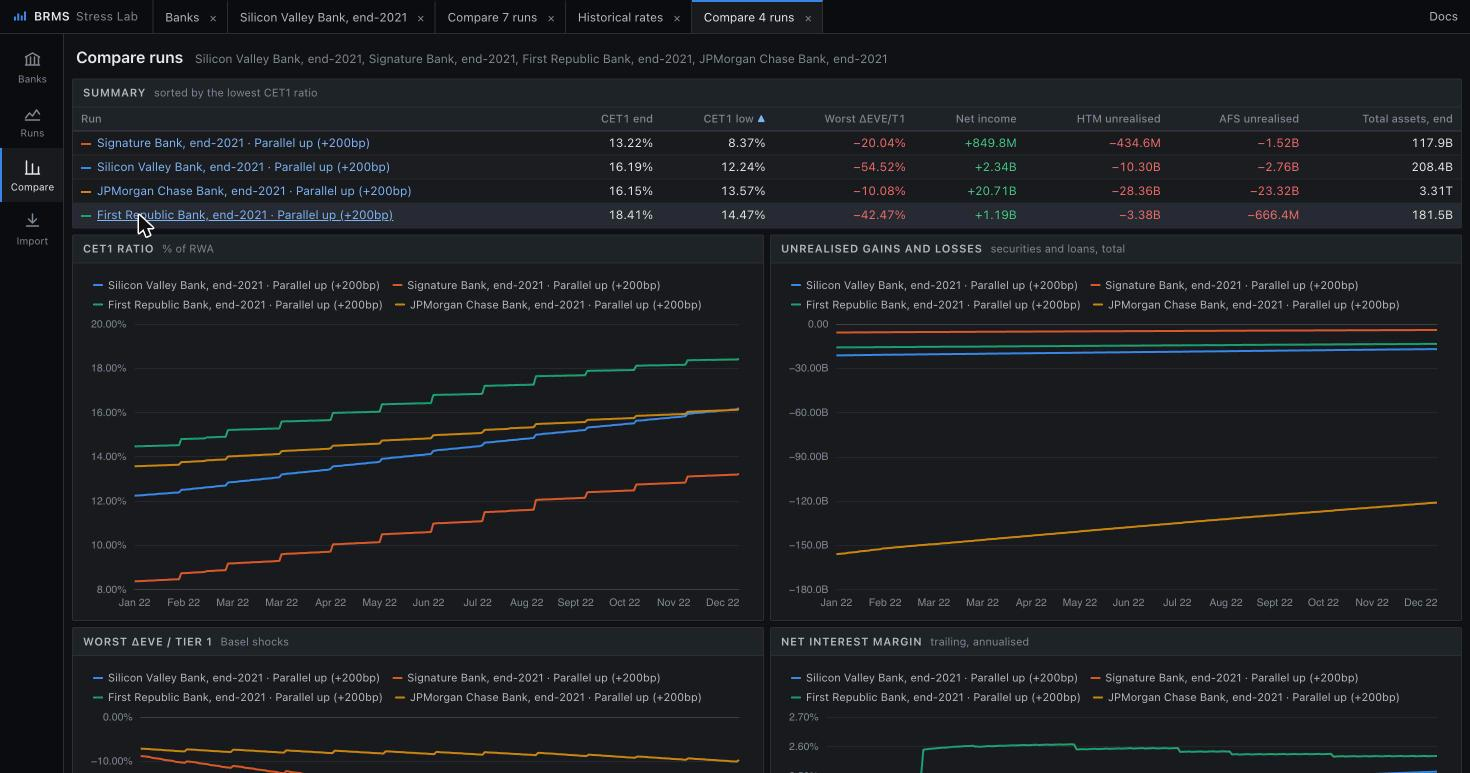
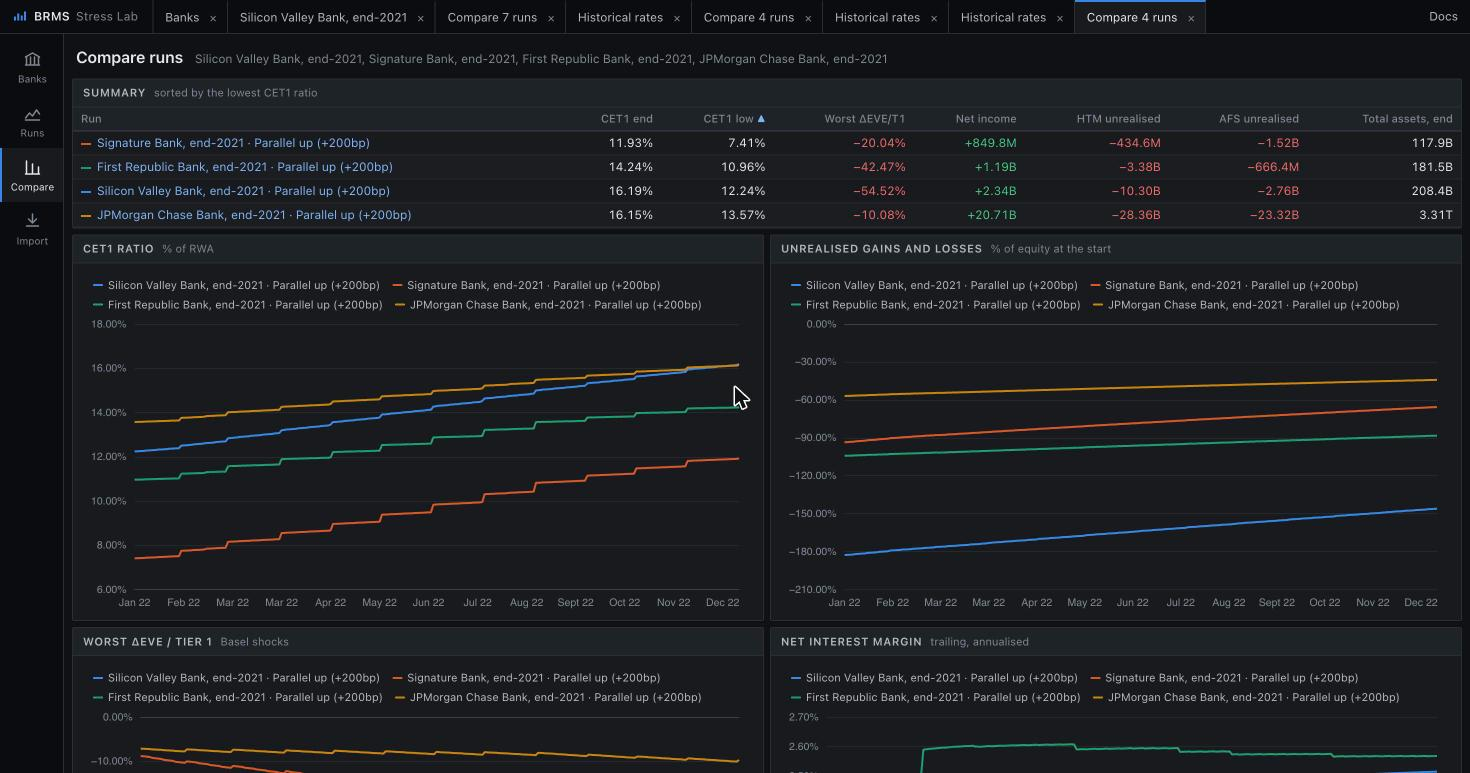
feat: preferred stock and Tier 2 from the Call Report; capital validated against filings
Preferred stock in equity counts as Additional Tier 1, not CET1
(regulatory.preferred_equity); Call Report banks take it from EQPP and
Tier 2 from RBCT2. Validation compares each case study's starting
equity, RWA and CET1 with its filing. Comparing several banks shows
unrealised gains and losses as a share of each bank's equity.

diff --git a/src/brms/web/static/js/views/compare.js b/src/brms/web/static/js/views/compare.js
@@ -82,9 +82,19 @@ function view(runs, failed) {
     return r.dates.map((_, j) => books.reduce((acc, values) => (values[j] === null ? acc : (acc ?? 0) + values[j] * unit),
       null));
   };
+  // Across banks of different sizes, losses mean more against each bank's own equity.
+  const ofEquity = (r) => {
+    const total = sumBooks(r);
+    const equity = (r.metrics.TOTAL_EQUITY || []).find((v) => v !== null && v !== undefined);
+    if (!total || !equity) return null;
+    return total.map((v) => (v === null ? null : v / (equity * (r.meta.unit || 1))));
+  };
+  const unrealised = multiBank
+    ? ["Unrealised gains and losses", ofEquity, (v) => pct(v, { sign: true }), "% of equity at the start", true]
+    : ["Unrealised gains and losses", sumBooks, (v) => money(v, { sign: true }), "securities and loans, total", true];
   const specs = [
     ["CET1 ratio", (r) => r.metrics.CET1_RATIO, (v) => pct(v), "% of RWA"],
-    ["Unrealised gains and losses", sumBooks, (v) => money(v, { sign: true }), "securities and loans, total", true],
+    unrealised,
     ["Worst ΔEVE / Tier 1", (r) => r.metrics.DELTA_EVE_WORST_TO_TIER1, (v) => pct(v, { sign: true }), "Basel shocks", true],
     ["Net interest margin", (r) => r.metrics.NET_INTEREST_MARGIN, (v) => pct(v), "trailing, annualised"],
   ];

diff --git a/src/brms/core/models/regulatory.py b/src/brms/core/models/regulatory.py
@@ -15,8 +15,10 @@ class RegulatoryConfig:
         aoci_filter: True removes accumulated OCI from CET1 (the US opt-out for banks not on
             advanced approaches); False is the Basel III treatment, where it counts.
         operational_rwa: Operational-risk RWA (an input; operational losses are not modelled).
-        additional_tier1: Additional Tier 1 instruments outstanding.
+        additional_tier1: Additional Tier 1 instruments outstanding (not in book equity).
         tier2: Tier 2 capital.
+        preferred_equity: Preferred stock included in book equity that counts as Additional Tier 1:
+            excluded from CET1 and added back in Tier 1.
 
     """
 
@@ -24,6 +26,7 @@ class RegulatoryConfig:
     operational_rwa: Decimal = Decimal(0)
     additional_tier1: Decimal = Decimal(0)
     tier2: Decimal = Decimal(0)
+    preferred_equity: Decimal = Decimal(0)
 
     def to_json(self) -> dict[str, Any]:
         """Return the JSON form written to ``config.json``."""
@@ -32,6 +35,7 @@ class RegulatoryConfig:
             "operational_rwa": str(self.operational_rwa),
             "additional_tier1": str(self.additional_tier1),
             "tier2": str(self.tier2),
+            "preferred_equity": str(self.preferred_equity),
         }
 
     @classmethod
@@ -43,4 +47,5 @@ class RegulatoryConfig:
             operational_rwa=Decimal(str(data.get("operational_rwa", 0))),
             additional_tier1=Decimal(str(data.get("additional_tier1", 0))),
             tier2=Decimal(str(data.get("tier2", 0))),
+            preferred_equity=Decimal(str(data.get("preferred_equity", 0))),
         )

diff --git a/src/brms/core/metrics/regulatory.py b/src/brms/core/metrics/regulatory.py
@@ -3,8 +3,9 @@
 All figures for a day come from one :class:`CapitalCalculator` pass over the as-if-closed
 balance sheet and the day's valuations, shared by every metric in this module.
 
-- CET1 = total equity - (accumulated OCI if the AOCI filter is on) - intangible assets.
-- Tier 1 = CET1 + AT1; Total capital = Tier 1 + Tier 2 (AT1 and Tier 2 are inputs).
+- CET1 = total equity - (accumulated OCI if the AOCI filter is on) - intangible assets - preferred
+  stock in equity.
+- Tier 1 = CET1 + preferred stock in equity + other AT1; Total capital = Tier 1 + Tier 2 (inputs).
 - Total RWA = credit RWA (standardised approach) + operational RWA (an input).
 - Leverage exposure = total assets - intangible assets (on-balance-sheet only).
 """
@@ -59,8 +60,9 @@ class CapitalCalculator:
         intangibles = rows.get("Intangible Assets", Decimal(0))
         aoci = rows.get("Accumulated OCI", Decimal(0))
         regulatory = bank.regulatory
-        cet1 = Decimal(str(bs["total_equity"])) - intangibles - (aoci if regulatory.aoci_filter else Decimal(0))
-        tier1 = cet1 + regulatory.additional_tier1
+        cet1 = (Decimal(str(bs["total_equity"])) - intangibles - (aoci if regulatory.aoci_filter else Decimal(0))
+                - regulatory.preferred_equity)
+        tier1 = cet1 + regulatory.preferred_equity + regulatory.additional_tier1
         credit = credit_rwa(bank, valuation_store, date, bs).total
         figures = CapitalFigures(
             cet1=cet1,

diff --git a/tests/lab/test_bank_file.py b/tests/lab/test_bank_file.py
@@ -237,3 +237,19 @@ def test_no_operating_flows_in_the_opening_balances(tmp_path: Path) -> None:
     sim = build_core_services(simulation_zip=out).simulation_service
     assert float(account_balance(sim, "Cash and Cash Equivalents")) == pytest.approx(2_000_000.0)  # noqa: S101
     assert float(account_balance(sim, "Dividends Paid")) == 0  # noqa: S101
+
+
+def test_preferred_equity_is_tier1_not_cet1(tmp_path: Path) -> None:
+    from brms.core.enums import MetricName
+
+    bank = {**_bank(), "regulatory": {"aoci_filter": True, "preferred_equity": 50_000, "tier2": 20_000}}
+    out = tmp_path / "bank.zip"
+    build_bank(_write(tmp_path, bank), {"yields": _yields()}, out)
+    services = build_core_services(simulation_zip=out)
+    sim = services.simulation_service
+    sim.advance()
+    day = sim.current_date
+    cet1, tier1, total = (float(services.metric_store.get(m, day)) for m in
+                          (MetricName.CET1_CAPITAL, MetricName.TIER1_CAPITAL, MetricName.TOTAL_CAPITAL))
+    assert tier1 - cet1 == pytest.approx(50_000)  # noqa: S101
+    assert total - tier1 == pytest.approx(20_000)  # noqa: S101

diff --git a/src/brms/lab/call_report.py b/src/brms/lab/call_report.py
@@ -67,6 +67,7 @@ FIELDS: tuple[str, ...] = (
     *(f"LNRS{s}" for _k, s, *_ in _BUCKETS), *(f"LNOT{s}" for _k, s, *_ in _BUCKETS),
     "DEP", "DEPNIDOM", "OTHBRF", "FREPP", "SUBND", "EDEP", "EINTEXP", "ISC", "ILNLS",
     "NONIX", "NONII", "ITAX", "IBEFTAX", "NETINC", "INTINC", "ERNAST", "EQCDIV", "DEPDOM", "DEPUNINS", "DEPFOR",
+    "EQPP", "RBCT2",
     "RBCT1C", "RBCT1CER", "RWAJ",
 )
 
@@ -185,6 +186,8 @@ def bank_file_from_call_report(  # noqa: PLR0913
         "reported": {k: items.get(k) for k in _REPORTED},
         "regulatory": {
             "aoci_filter": aoci_filter,
+            "preferred_equity": _n(items, "EQPP"),
+            "tier2": _n(items, "RBCT2"),
             "operational_rwa": operational_rwa(
                 net_interest_income=(_n(items, "INTINC") - _n(items, "EINTEXP")) * annualise,
                 earning_assets=_n(items, "ERNAST") or _n(items, "ASSET"),

diff --git a/tests/lab/test_call_report.py b/tests/lab/test_call_report.py
@@ -306,3 +306,9 @@ def test_a_bank_without_securities_or_loans_maps(items: dict) -> None:
     empty = {k: (0.0 if k.startswith(("SC", "LN", "ISC", "ILNLS")) else v) for k, v in items.items()}
     bank = bank_file_from_call_report({**empty, "REPDTE": items["REPDTE"]}, prime=_PRIME)
     assert bank["positions"] == []
+
+
+def test_capital_structure_from_the_filing(items: dict) -> None:
+    bank = bank_file_from_call_report({**items, "EQPP": 3_632_500.0, "RBCT2": 1_445_789.0}, prime=_PRIME)
+    assert bank["regulatory"]["preferred_equity"] == 3_632_500.0
+    assert bank["regulatory"]["tier2"] == 1_445_789.0

diff --git a/docs/lab/tutorials/basel-shocks.md b/docs/lab/tutorials/basel-shocks.md
@@ -55,21 +55,22 @@ Bank, end-2021** and **JPMorgan Chase Bank, end-2021**:
 3. Click **Run scenario**.
 
 Then open **Runs**, tick the four runs and click **Compare 4 selected**. Each run is labelled with
-its bank:
+its bank. Because the banks differ in size, the comparison shows unrealised gains and losses as a
+share of each bank's equity at the start: SVB's are almost twice its equity, at about −180%.
 
 ![Four banks under +200bp](../../images/lab/compare-banks.jpg)
 
 | Bank | Lowest CET1 ratio | Worst ΔEVE / Tier 1 | HTM unrealised | AFS unrealised |
 |---|---:|---:|---:|---:|
-| Signature Bank | **8.4%** | −20% | −$0.4bn | −$1.5bn |
+| Signature Bank | **7.4%** | −20% | −$0.4bn | −$1.5bn |
+| First Republic Bank | 11.0% | −42% | −$3.4bn | −$0.7bn |
 | Silicon Valley Bank | 12.2% | **−55%** | −$10.3bn | −$2.8bn |
 | JPMorgan Chase Bank | 13.6% | −10% | −$28.4bn | −$23.3bn |
-| First Republic Bank | 14.5% | −42% | −$3.4bn | −$0.7bn |
 
 How to read it:
 
 - **Capital.** With AOCI counted, the shock hits CET1 on day one through AFS losses. Signature
-  starts with the thinnest capital and drops to 8.4%. All four then recover as profits accumulate.
+  starts with the thinnest capital and drops to 7.4%. All four then recover as profits accumulate.
 - **Economic value.** ΔEVE revalues every asset and liability at the shocked rates, including the
   stable (core) part of deposits. Three of the four banks are outliers against the 15% threshold;
   JPMorgan is not. SVB is the most exposed: long securities, funded by deposits that were 95%
@@ -78,8 +79,8 @@ How to read it:
   HTM or AFS.
 - **Size.** JPMorgan's dollar losses are the largest, but against its capital its economic-value
   loss is the smallest, and its larger share of insured retail deposits offsets more of it. Its
-  CET1 ratio is lower than First Republic's because $46bn of goodwill and other intangibles is
-  deducted from its capital.
+  $46bn of goodwill and other intangibles is deducted from CET1, as First Republic's and
+  Signature's preferred stock is (it counts as Additional Tier 1, not common equity).
 
 !!! info "Deposits in ΔEVE"
     Core deposits follow the Basel caps, weighted by each bank's insured share

diff --git a/docs/lab/validation.md b/docs/lab/validation.md
@@ -6,6 +6,31 @@ its unrealised losses at the end of 2022, as a share of amortised cost, with wha
 Rates of loss, not amounts, are compared, because SVB bought, sold and was repaid securities during
 2022 while the lab holds the end-2021 book.
 
+## Capital at the start
+
+Each case study's capital on its first market day in the lab, against the same bank's Call Report
+(USD billions):
+
+| Bank | Equity, filed | Equity, lab | RWA, filed | RWA, lab | CET1 ratio, filed | CET1 ratio, lab |
+|---|---:|---:|---:|---:|---:|---:|
+| Silicon Valley Bank, end-2021 | 14.8 | 14.6 | 98 | 93 | 14.9% | 15.7% |
+| Silicon Valley Bank, end-2022 | 15.5 | 15.6 | 111 | 103 | 15.3% | 17.2% |
+| Signature Bank, end-2021 | 7.8 | 7.8 | 77 | 74 | 9.6% | 9.9% |
+| First Republic Bank, end-2021 | 15.9 | 15.9 | 125 | 104 | 9.7% | 11.6% |
+| JPMorgan Chase Bank, end-2021 | 302.8 | 301.6 | 1,582 | 1,684 | 16.9% | 15.2% |
+
+- **Equity** matches to within 1.5%. The small gaps are the first day's marks and two days of
+  income.
+- **RWA** differ because the lab applies the Basel III standardised approach (CRE20). US banks
+  report under the US capital rules, which weight residential mortgages at 50%; Basel III weights
+  low loan-to-value mortgages at 20–40%. So the lab's RWA are lower for mortgage-heavy banks (First
+  Republic) and its CET1 ratios higher. JPMorgan reports under the advanced approaches, with lower
+  RWA than the standardised approach gives.
+- **CET1** excludes preferred stock (Additional Tier 1) and intangibles, as the filing does.
+
+The browser app shows this comparison for any Call Report bank, on its page under **Filing and
+lab**.
+
 ## From the Call Report alone
 
 The [case study](tutorials/svb-2022.md) bank, built from SVB's Call Report with no other input.

diff --git a/docs/lab/guides/assumptions.md b/docs/lab/guides/assumptions.md
@@ -77,9 +77,12 @@ provisions are **not** modelled.
 
 ## Capital
 
-- **CET1** = total equity − intangible assets − (AOCI, when the AOCI filter is on).
-- **Tier 1** = CET1 + additional Tier 1 (an input); **total capital** = Tier 1 + Tier 2 (an input).
-- **Credit RWA** uses the Basel standardised approach (CRE20): each security and loan is weighted
+- **CET1** = total equity − intangible assets − preferred stock in equity − (AOCI, when the AOCI
+  filter is on).
+- **Tier 1** = CET1 + preferred stock in equity + other additional Tier 1; **total capital** =
+  Tier 1 + Tier 2. Call Report banks take preferred stock and Tier 2 from the filing.
+- **Credit RWA** uses the Basel III standardised approach (CRE20), not the US capital rules, so a
+  US bank's RWA in the lab differ from its filing (see [Validation](../validation.md#capital-at-the-start)): each security and loan is weighted
   by its issuer type and rating (sovereign, public-sector entity, bank, corporate), mortgages by
   loan-to-value, retail loans at 75%. Cash is 0%; other assets 100%; intangibles are deducted.
 - **Operational RWA** is an input; for Call Report banks the lab estimates it with the Basel

diff --git a/docs/lab/reference/metrics.md b/docs/lab/reference/metrics.md
@@ -18,8 +18,8 @@ fractions (0.12 = 12%).
 
 | Column | Definition |
 |---|---|
-| `CET1_CAPITAL` | total equity − intangible assets − accumulated OCI (only when the AOCI filter is on) |
-| `TIER1_CAPITAL` | CET1 + additional Tier 1 (input) |
+| `CET1_CAPITAL` | total equity − intangible assets − preferred stock in equity − accumulated OCI (only when the AOCI filter is on) |
+| `TIER1_CAPITAL` | CET1 + preferred stock in equity + other additional Tier 1 (inputs) |
 | `TOTAL_CAPITAL` | Tier 1 + Tier 2 (input) |
 | `CREDIT_RWA` | standardised credit risk-weighted assets: exposures (carrying value plus accrued interest) × CRE20 risk weights; other assets 100%, cash 0% |
 | `OPERATIONAL_RWA` | operational-risk RWA (input, or estimated for Call Report banks) |

diff --git a/docs/lab/guides/reading-results.md b/docs/lab/guides/reading-results.md
@@ -61,7 +61,9 @@ Tables show amounts as filed: Call Report banks in **USD thousands** (the panel 
 
 **Compare** overlays runs on the same charts: CET1 ratio, total unrealised gains and losses, worst
 ΔEVE / Tier 1, net interest margin and the 10-year yield. The summary table is sorted by each run's
-lowest CET1 ratio. Runs of different banks are labelled with the bank's name.
+lowest CET1 ratio. Runs of different banks are labelled with the bank's name, and their unrealised
+gains and losses are shown as a percentage of each bank's equity at the start, so banks of
+different sizes compare.
 
 ## Common questions
 

diff --git a/docs/lab/reference/call-report.md b/docs/lab/reference/call-report.md
@@ -65,6 +65,8 @@ Credit-loss provisions are not used: the lab does not model credit losses.
 ## Capital
 
 - `regulatory.aoci_filter`: an input (default on).
+- `regulatory.preferred_equity`: perpetual preferred stock `EQPP` (Additional Tier 1, part of equity).
+- `regulatory.tier2`: Tier 2 capital as reported, `RBCT2`.
 - `regulatory.operational_rwa`: estimated with the Basel III standardised approach for
   operational risk. The business indicator is the smaller of |net interest income| and 2.25% of
   earning assets (`ERNAST`), plus non-interest income. It is multiplied by 12% up to $1bn, 15% from
